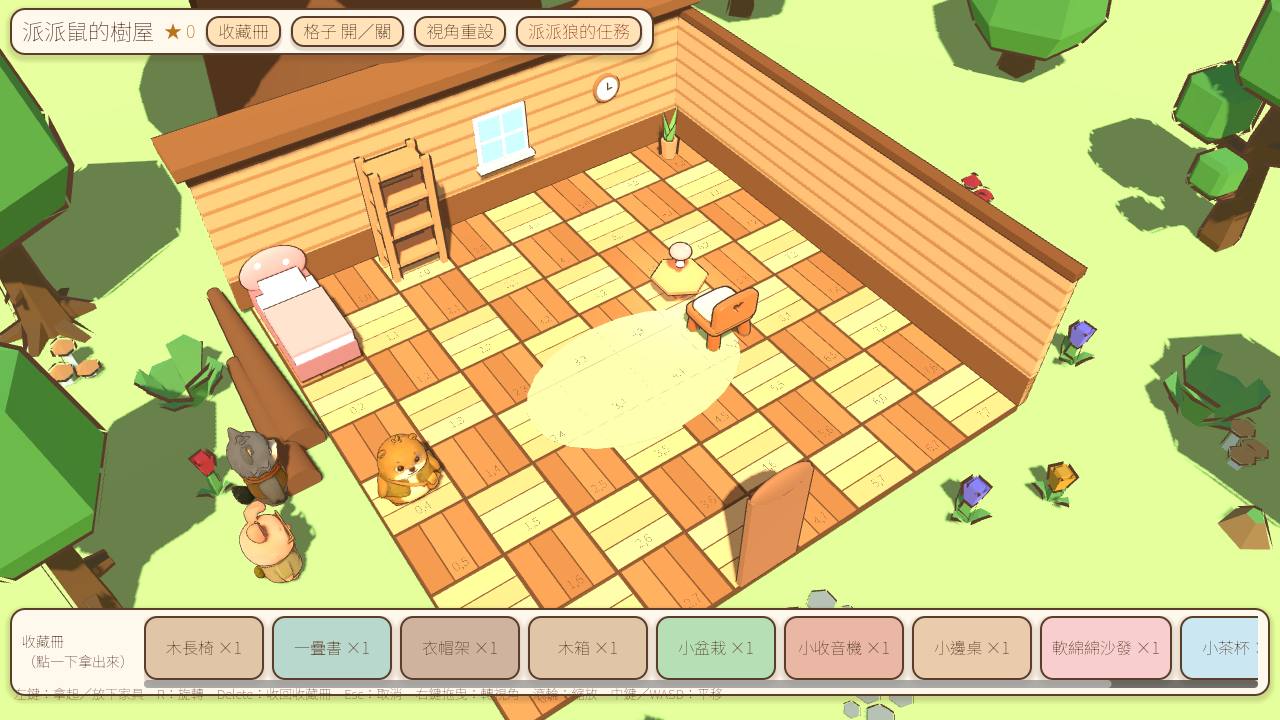
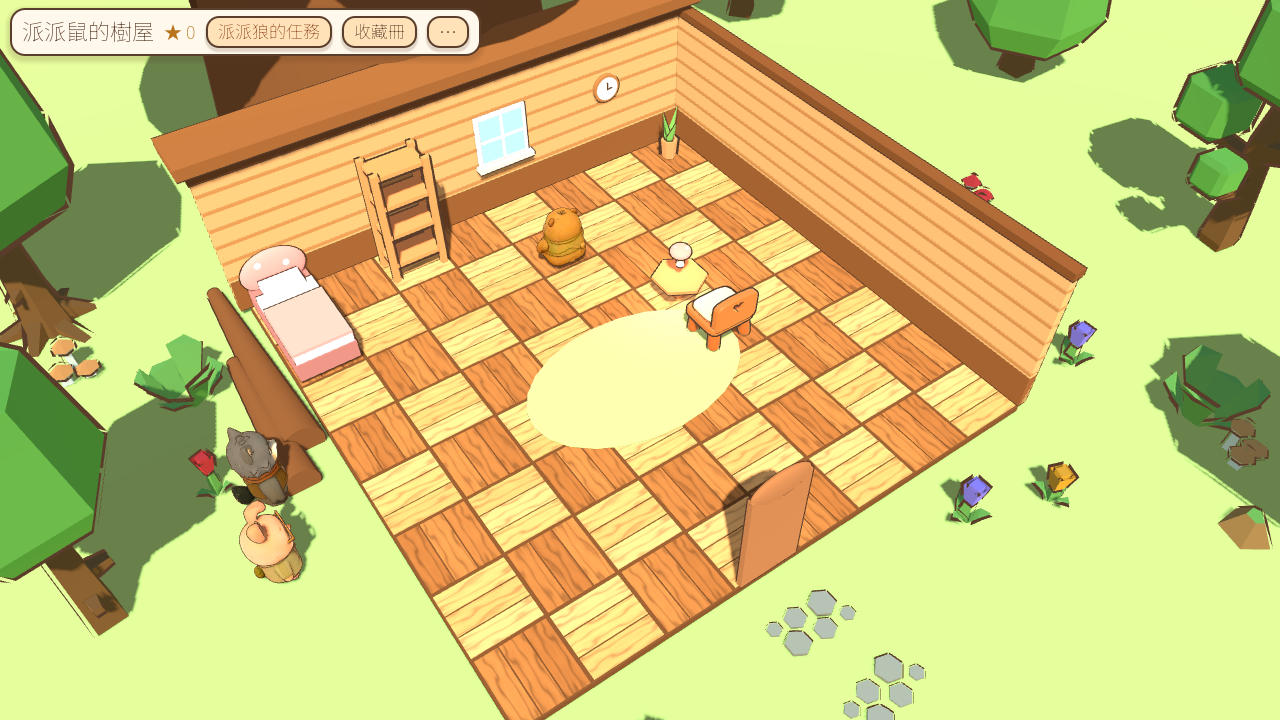
精簡首頁介面、木地板加上木紋
- 收藏冊一開始不顯示，按「收藏冊」才打開；操作說明收進「⋯」
- 工具列只剩「派派狼的任務」「收藏冊」「⋯」（格子、視角重設、操作說明）
- 家裡預設不顯示格子，任務裡顯示
- 木地板：程式產生可無縫拼接的木紋（年輪＋纖維），沿木條方向

Changed region(s): [[0.0, 0.2139, 1.0, 1.0], [0.125, 0.0, 0.5312, 0.0917]]

diff --git a/README.md b/README.md
@@ -31,7 +31,7 @@
 
 | 模式 | 操作 |
 |---|---|
-| 家 | 左鍵拿起／放下家具、R 旋轉、Delete 收回收藏冊、Esc 取消；點門口的派派狼或「派派狼的任務」接任務 |
+| 家 | 上方只有「派派狼的任務」「收藏冊」「⋯」（格子、視角重設、操作說明）；收藏冊按了才出現。左鍵拿起／放下家具、R 旋轉、Delete 收回收藏冊、Esc 取消；點屋外的派派狼也能接任務 |
 | 視角 | 右鍵拖曳旋轉、滾輪縮放、中鍵拖曳或 WASD 平移、Q/E 轉 90 度 |
 | 任務 | 程式跑到 input() 時，派派狼的問題會出現在氣泡和回答框，輸入回答按 Enter（交件時由測資的 `inputs` 自動回答）；▶ 看示範（演標準答案，不顯示程式）、▶ 執行（用你寫的值）、單步、暫停、速度、重來、★ 交件（含隱藏測資） |
 
